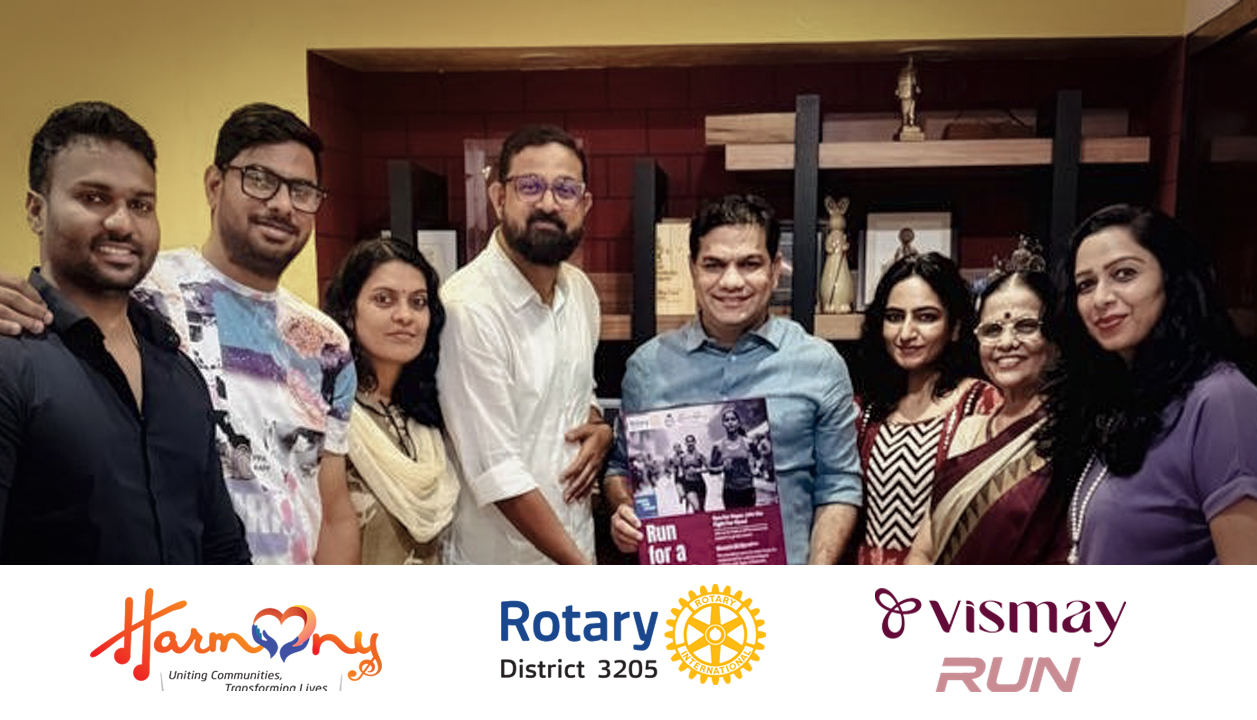
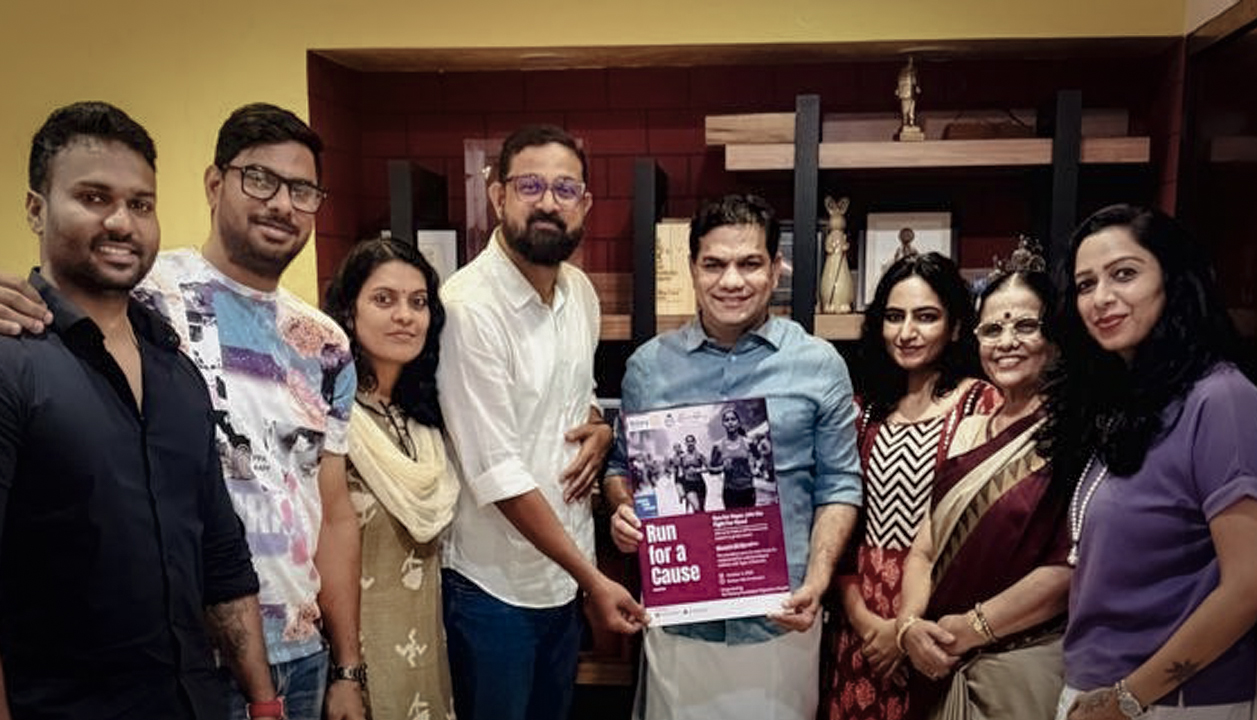
done

Changed region(s): [[0.0, 0.7639, 1.0, 1.0]]

diff --git a/src/components/about.tsx b/src/components/about.tsx
@@ -115,11 +115,38 @@ export const AboutSection = () => {
         sx={{
           flex: 1,
           position: "relative",
-          aspectRatio: "16 / 9",
+          // aspectRatio: "16 / 9",
           borderRadius: 2,
           overflow: "hidden",
         }}
       >
+        <Box
+          sx={{
+            bottom: 0,
+            position: "absolute",
+            width: "100%",
+            height: 70,
+            zIndex: 4,
+            background: "#fff",
+            display: "flex",
+            flexDirection: "row",
+            justifyContent: "space-around",
+          }}
+        >
+          {["VISMAY LOGO.png", "rotat emp.png", "vismay log 2.png"].map(
+            (src, i) => (
+              <Image
+                key={i}
+                src={`/${src}`}
+                alt={`Logo ${i + 1}`}
+                width={100}
+                height={100}
+                style={{ objectFit: "contain" }}
+                priority
+              />
+            )
+          )}
+        </Box>
         <Swiper
           spaceBetween={20}
           centeredSlides={true}
@@ -135,7 +162,7 @@ export const AboutSection = () => {
         >
           {["/vismayphoto1.jpg", "/vismayphoto2.jpg"].map((src, i) => (
             <SwiperSlide key={i}>
-              <Card sx={{ height: { xs: 190, md: 450 }, borderRadius: "15px" }}>
+              <Card sx={{ height: { xs: 300, md: 450 }, borderRadius: "15px" }}>
                 <Image
                   src={src}
                   alt={`Slide ${i + 1}`}
@@ -153,43 +180,6 @@ export const AboutSection = () => {
           ))}
 
           {/* Progress Indicator */}
-          <Box
-            sx={{
-              position: "absolute",
-              bottom: 12,
-              right: 12,
-              width: 48,
-              height: 48,
-              borderRadius: "50%",
-              backgroundColor: "rgba(0,0,0,0.5)",
-              display: "flex",
-              alignItems: "center",
-              justifyContent: "center",
-              color: "#fff",
-              zIndex: 10,
-              fontSize: 12,
-            }}
-          >
-            <svg
-              viewBox="0 0 48 48"
-              style={{ position: "absolute", top: 0, left: 0 }}
-              width={48}
-              height={48}
-            >
-              <circle
-                ref={progressCircle}
-                cx="24"
-                cy="24"
-                r="20"
-                fill="none"
-                stroke="#fff"
-                strokeWidth="4"
-                strokeDasharray="126"
-                strokeDashoffset="0"
-              />
-            </svg>
-            <span ref={progressContent} />
-          </Box>
         </Swiper>
       </Box>
 
